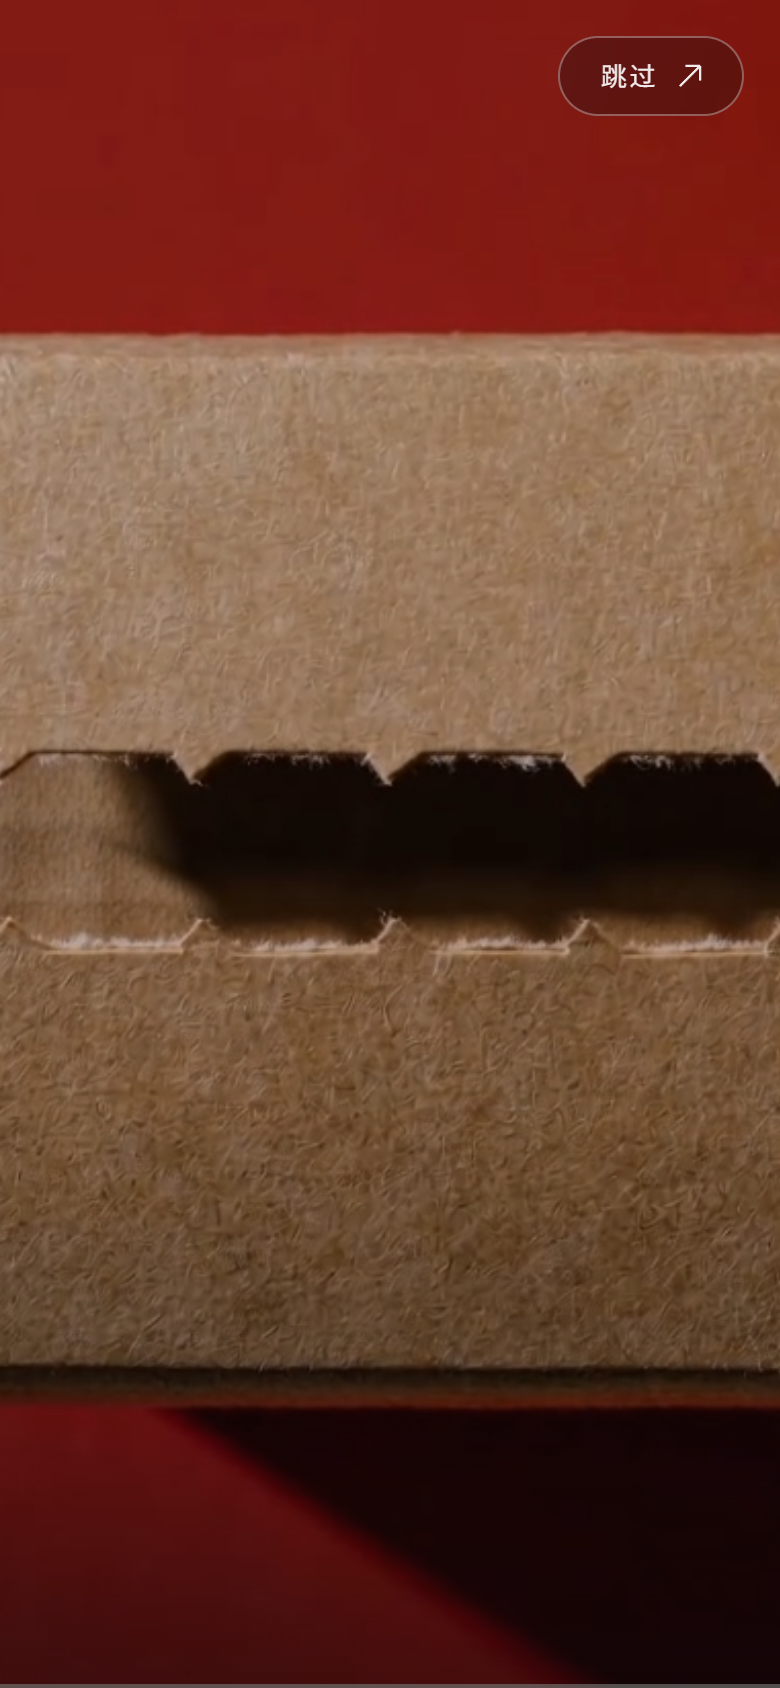
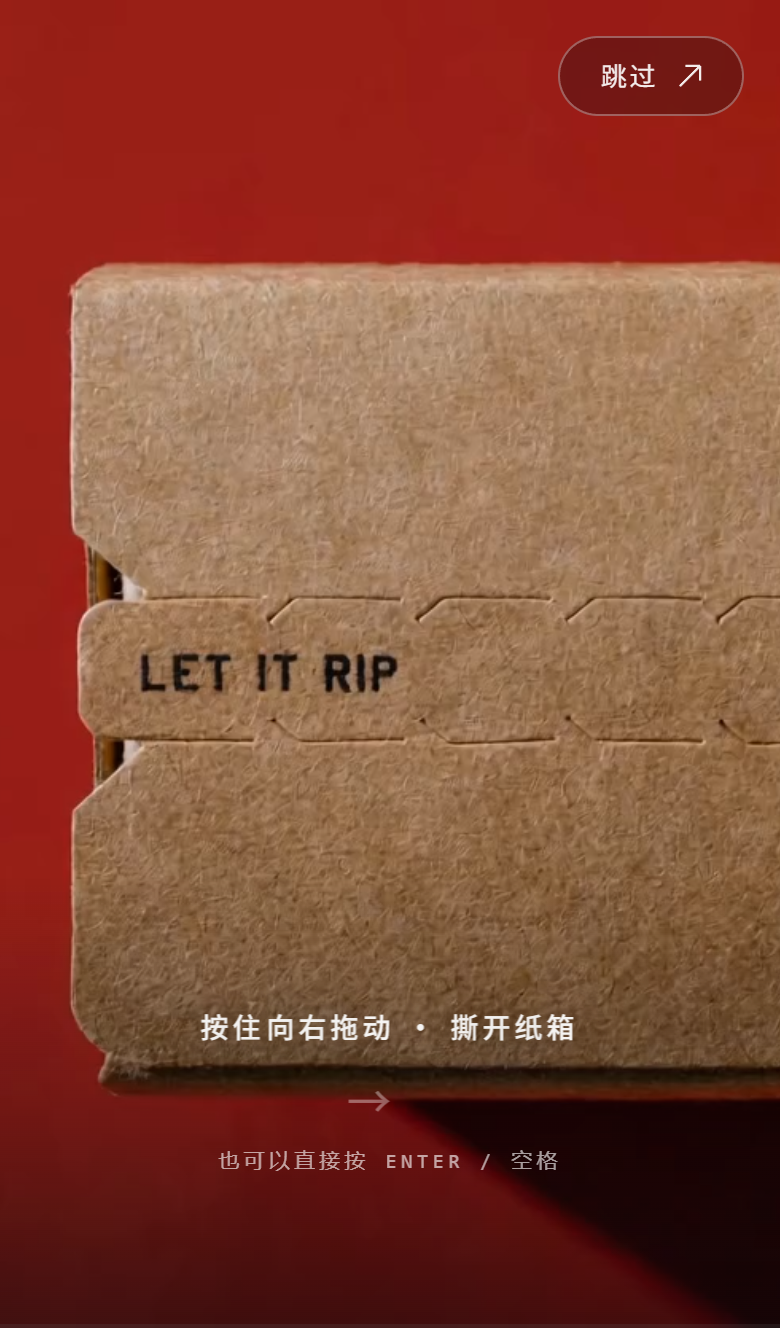
第二十五轮：手机端开场取景改成「盒子左边缘离屏幕左边 1cm」
- 素材是 4:3 的 1112x834 特写，盒子左边缘在画面 22.3% 处；竖屏原来的 cover 居中会把左边一大块连同 LET IT RIP 一起裁掉

- 竖屏（max-aspect-ratio: 4/3）改成：视频按高度铺满（宽 = 4/3 高）+ 左移自身宽度 22.3%，盒子左边缘正好落在屏幕左边 1cm；该块必须排在 .intro.is-sealing 之后，并写 max-width: none 覆盖全局 img/video{max-width:100%}

- 新增探针 .codex-build/site-check/intro-geom.mjs：390x664 / 360x740 / 414x896 三种尺寸实测左边缘都在 1cm

- 已用 CloudBase CLI 部署国内站（74 个文件，约 18 秒），线上 styles/global.css 已核对；README/ROADMAP/网站现状 同步

diff --git a/01-网站预览/styles/global.css b/01-网站预览/styles/global.css
@@ -2885,6 +2885,31 @@ section[id] {
   filter: brightness(0.6) saturate(0.9);
 }
 
+/* 竖屏（屏幕比素材 4:3 更窄）：素材宽 1112，盒子左边缘在画面的 22.3% 处，
+   以前 cover 居中会把左边那一大块连同「LET IT RIP」一起裁掉。
+   现在改成「盒子左边缘离屏幕左边框 1cm」：
+   视频按高度铺满（宽度自动 = 4/3 高），再整体左移自身宽度的 22.3%，
+   盒子左边缘就正好落在 1cm 上；右边照材料本身的取景（材料右侧本来就是盒身）。
+   ⚠ 这两条必须排在上面那条 .intro.is-sealing 之后：同优先级时后写的赢，
+   不然撕到底放大那一下会把位移覆盖掉、画面跳一下。 */
+@media (max-aspect-ratio: 4/3) {
+  .intro__video {
+    right: auto;
+    bottom: auto;
+    width: auto;
+    height: 100%;
+    /* ⚠ 顶部全局重置里有 `img, video { max-width: 100% }`，
+       不放开的话视频宽度会被卡成屏幕宽，「按 4:3 撑开再左移」就失效了 */
+    max-width: none;
+    left: 1cm;
+    transform: translateX(-22.3%);
+  }
+
+  .intro.is-sealing .intro__video {
+    transform: translateX(-22.3%) scale(1.04);
+  }
+}
+
 /* 左边黑边上的「快递单」：FROM: MIN CAN. / Please claim your exclusive parcel.
    只在真的有黑边的宽屏上出现（窄屏视频铺满，没地方放）。 */
 .intro__from {

diff --git a/02-网站源码/src/styles/global.css b/02-网站源码/src/styles/global.css
@@ -2885,6 +2885,31 @@ section[id] {
   filter: brightness(0.6) saturate(0.9);
 }
 
+/* 竖屏（屏幕比素材 4:3 更窄）：素材宽 1112，盒子左边缘在画面的 22.3% 处，
+   以前 cover 居中会把左边那一大块连同「LET IT RIP」一起裁掉。
+   现在改成「盒子左边缘离屏幕左边框 1cm」：
+   视频按高度铺满（宽度自动 = 4/3 高），再整体左移自身宽度的 22.3%，
+   盒子左边缘就正好落在 1cm 上；右边照材料本身的取景（材料右侧本来就是盒身）。
+   ⚠ 这两条必须排在上面那条 .intro.is-sealing 之后：同优先级时后写的赢，
+   不然撕到底放大那一下会把位移覆盖掉、画面跳一下。 */
+@media (max-aspect-ratio: 4/3) {
+  .intro__video {
+    right: auto;
+    bottom: auto;
+    width: auto;
+    height: 100%;
+    /* ⚠ 顶部全局重置里有 `img, video { max-width: 100% }`，
+       不放开的话视频宽度会被卡成屏幕宽，「按 4:3 撑开再左移」就失效了 */
+    max-width: none;
+    left: 1cm;
+    transform: translateX(-22.3%);
+  }
+
+  .intro.is-sealing .intro__video {
+    transform: translateX(-22.3%) scale(1.04);
+  }
+}
+
 /* 左边黑边上的「快递单」：FROM: MIN CAN. / Please claim your exclusive parcel.
    只在真的有黑边的宽屏上出现（窄屏视频铺满，没地方放）。 */
 .intro__from {

diff --git a/02-网站源码/ROADMAP.md b/02-网站源码/ROADMAP.md
@@ -458,6 +458,23 @@
       线上 `media/intro-poster.webp` 200、`bundle.js` 里已带 poster 与 autoPlay。
       以后 Codex 可以自己部署了，流程记在 `网页端/部署手册.md` 二·五。
 
+## 已完成 · 第二十五轮（2026-10-05 · 手机端开场取景：盒子左边缘离屏幕左边 1cm）
+
+- [x] **现象**：竖屏手机上开场是 `object-fit: cover` + 居中，素材 1112×834（4:3）比屏幕宽得多，
+      左右各裁掉一大块 —— 盒子左边缘和印字「LET IT RIP」被切掉，看着像「盒子没显示全」。
+- [x] **改法**：竖屏（`max-aspect-ratio: 4/3`）不再居中裁：
+      视频按高度铺满（宽度自动 = 4/3 高），再整体左移**自身宽度的 22.3%**
+      （这个 22.3% 是从 `intro-poster.webp` 里量出来的盒子左边缘位置），
+      这样盒子左边缘正好落在屏幕左边 **1cm** 处，右边照材料本身的取景。
+      ⚠ 这个 max-aspect 块必须排在 `.intro.is-sealing .intro__video` **之后**——
+      同优先级后写的赢，否则撕到底放大那一下会把 `translateX` 覆盖掉、画面跳一下。
+- [x] **踩的坑**：第一版只写 `width: auto` 没生效，视频还是被压成屏幕宽、右边留黑边。
+      原因是样式表顶部全局重置里有 `img, video { max-width: 100% }`，
+      必须同时写 `max-width: none` 才放得开。
+- [x] 新增探针 `.codex-build/site-check/intro-geom.mjs`：拿 390×664 / 360×740 / 414×896
+      三种手机尺寸读视频的 `getBoundingClientRect()` + 计算样式，验证盒子左边缘都落在 1cm。
+- [x] 已用 CloudBase CLI 部署到国内站（74 个文件，约 18 秒），线上 `styles/global.css` 已核对。
+
 ## 上线前必须处理
 
 - [x] 视频体积：已换成 25.4MB / 21.1MB 的版本，总大小从 385MB 降到 46MB

diff --git a/网页端/网站现状.md b/网页端/网站现状.md
@@ -98,11 +98,17 @@ git add -A; git commit -m "更新：xxx"; git push
    （`media/intro-poster.webp`，脚本 `.codex-build/make-intro-poster.mjs`），
    `wakeVideo()` = 播一下马上暂停，把解码器叫醒。回归探针
    `.codex-build/site-check/intro-touch.mjs`（手机模式 + 触摸拖拽，改完开场必跑）。
+10. **竖屏开场取景别改回 `cover` 居中**（第二十五轮改的）：素材是 4:3 的 1112×834 特写，
+   盒子左边缘在画面 **22.3%** 处，居中裁会把左边连同「LET IT RIP」切掉。
+   现在竖屏（`@media (max-aspect-ratio: 4/3)`）是「按高度铺满 + 左移自身宽度 22.3%」，
+   让盒子左边缘离屏幕左边 **1cm**；那一段还专门写了 `max-width: none`——
+   顶部全局重置的 `img, video { max-width: 100% }` 会把视频压回屏幕宽，不放开就白写。
+   回归探针 `.codex-build/site-check/intro-geom.mjs`（三种手机尺寸量左边缘位置）。
 
 ## 六、当前状态
 
-- **已完成第一轮 ~ 第二十四轮**，最新提交见 `git log`（第二十四轮：修「微信 / iOS 里
-  开场全黑」——加 poster + 把视频解码器叫醒）。
+- **已完成第一轮 ~ 第二十五轮**，最新提交见 `git log`（第二十五轮：手机端开场取景改成
+  「盒子左边缘离屏幕左边 1cm」，不再把盒子左边裁掉）。
   每轮的记录在 `02-网站源码/ROADMAP.md`。
 - **已经 push（2026-10-05）**：`origin/main` = `e4f2579`，本地不再领先。
   GitHub Pages 的 Actions 部署成功，线上 `bundle.js` 与本地逐字节一致、`resume.pdf` 已是新版；
